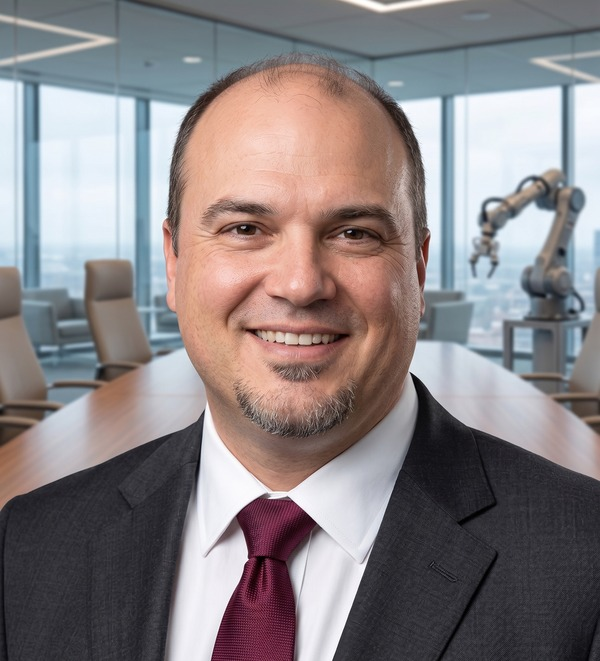
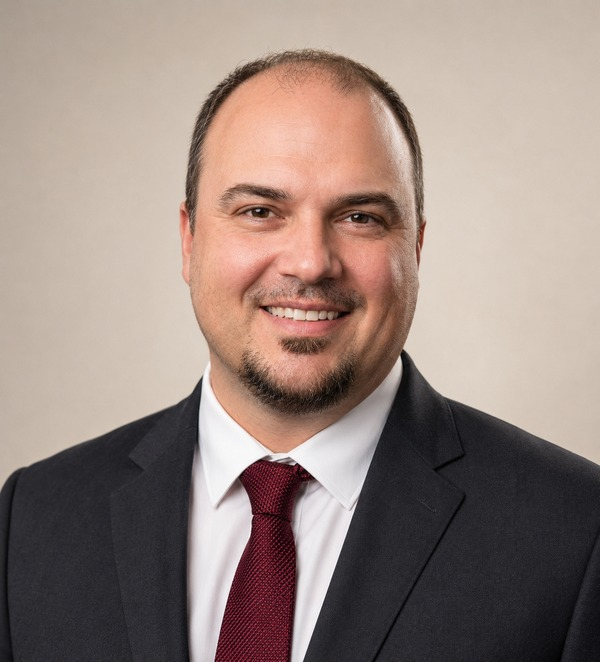
content: replace portrait with neutral-background variant
New 600×662 JPEG (q92, 66 KB) — same person, cleaner editorial
backdrop suitable for both Hero and the printed CV.

diff --git a/src/data/profile.ts b/src/data/profile.ts
@@ -11,7 +11,7 @@ export const profile = {
   phone: '+36 20 349 6421',
   email: 'ferenc.bereczki@codewitness.ai',
   emailPersonal: 'fbereczki@gmail.com',
-  portrait: '/portrait.jpg', // 600×661 LANCZOS-resized + JPEG q92, 88 KB — natív megjelenítés Hero-ban
+  portrait: '/portrait.jpg', // 600×662 LANCZOS-resized + JPEG q92, 66 KB — natív megjelenítés Hero-ban
   currentRole: {
     hu: 'Cybersecurity Project Manager — Knorr-Bremse R&D Center',
     en: 'Cybersecurity Project Manager — Knorr-Bremse R&D Center',
